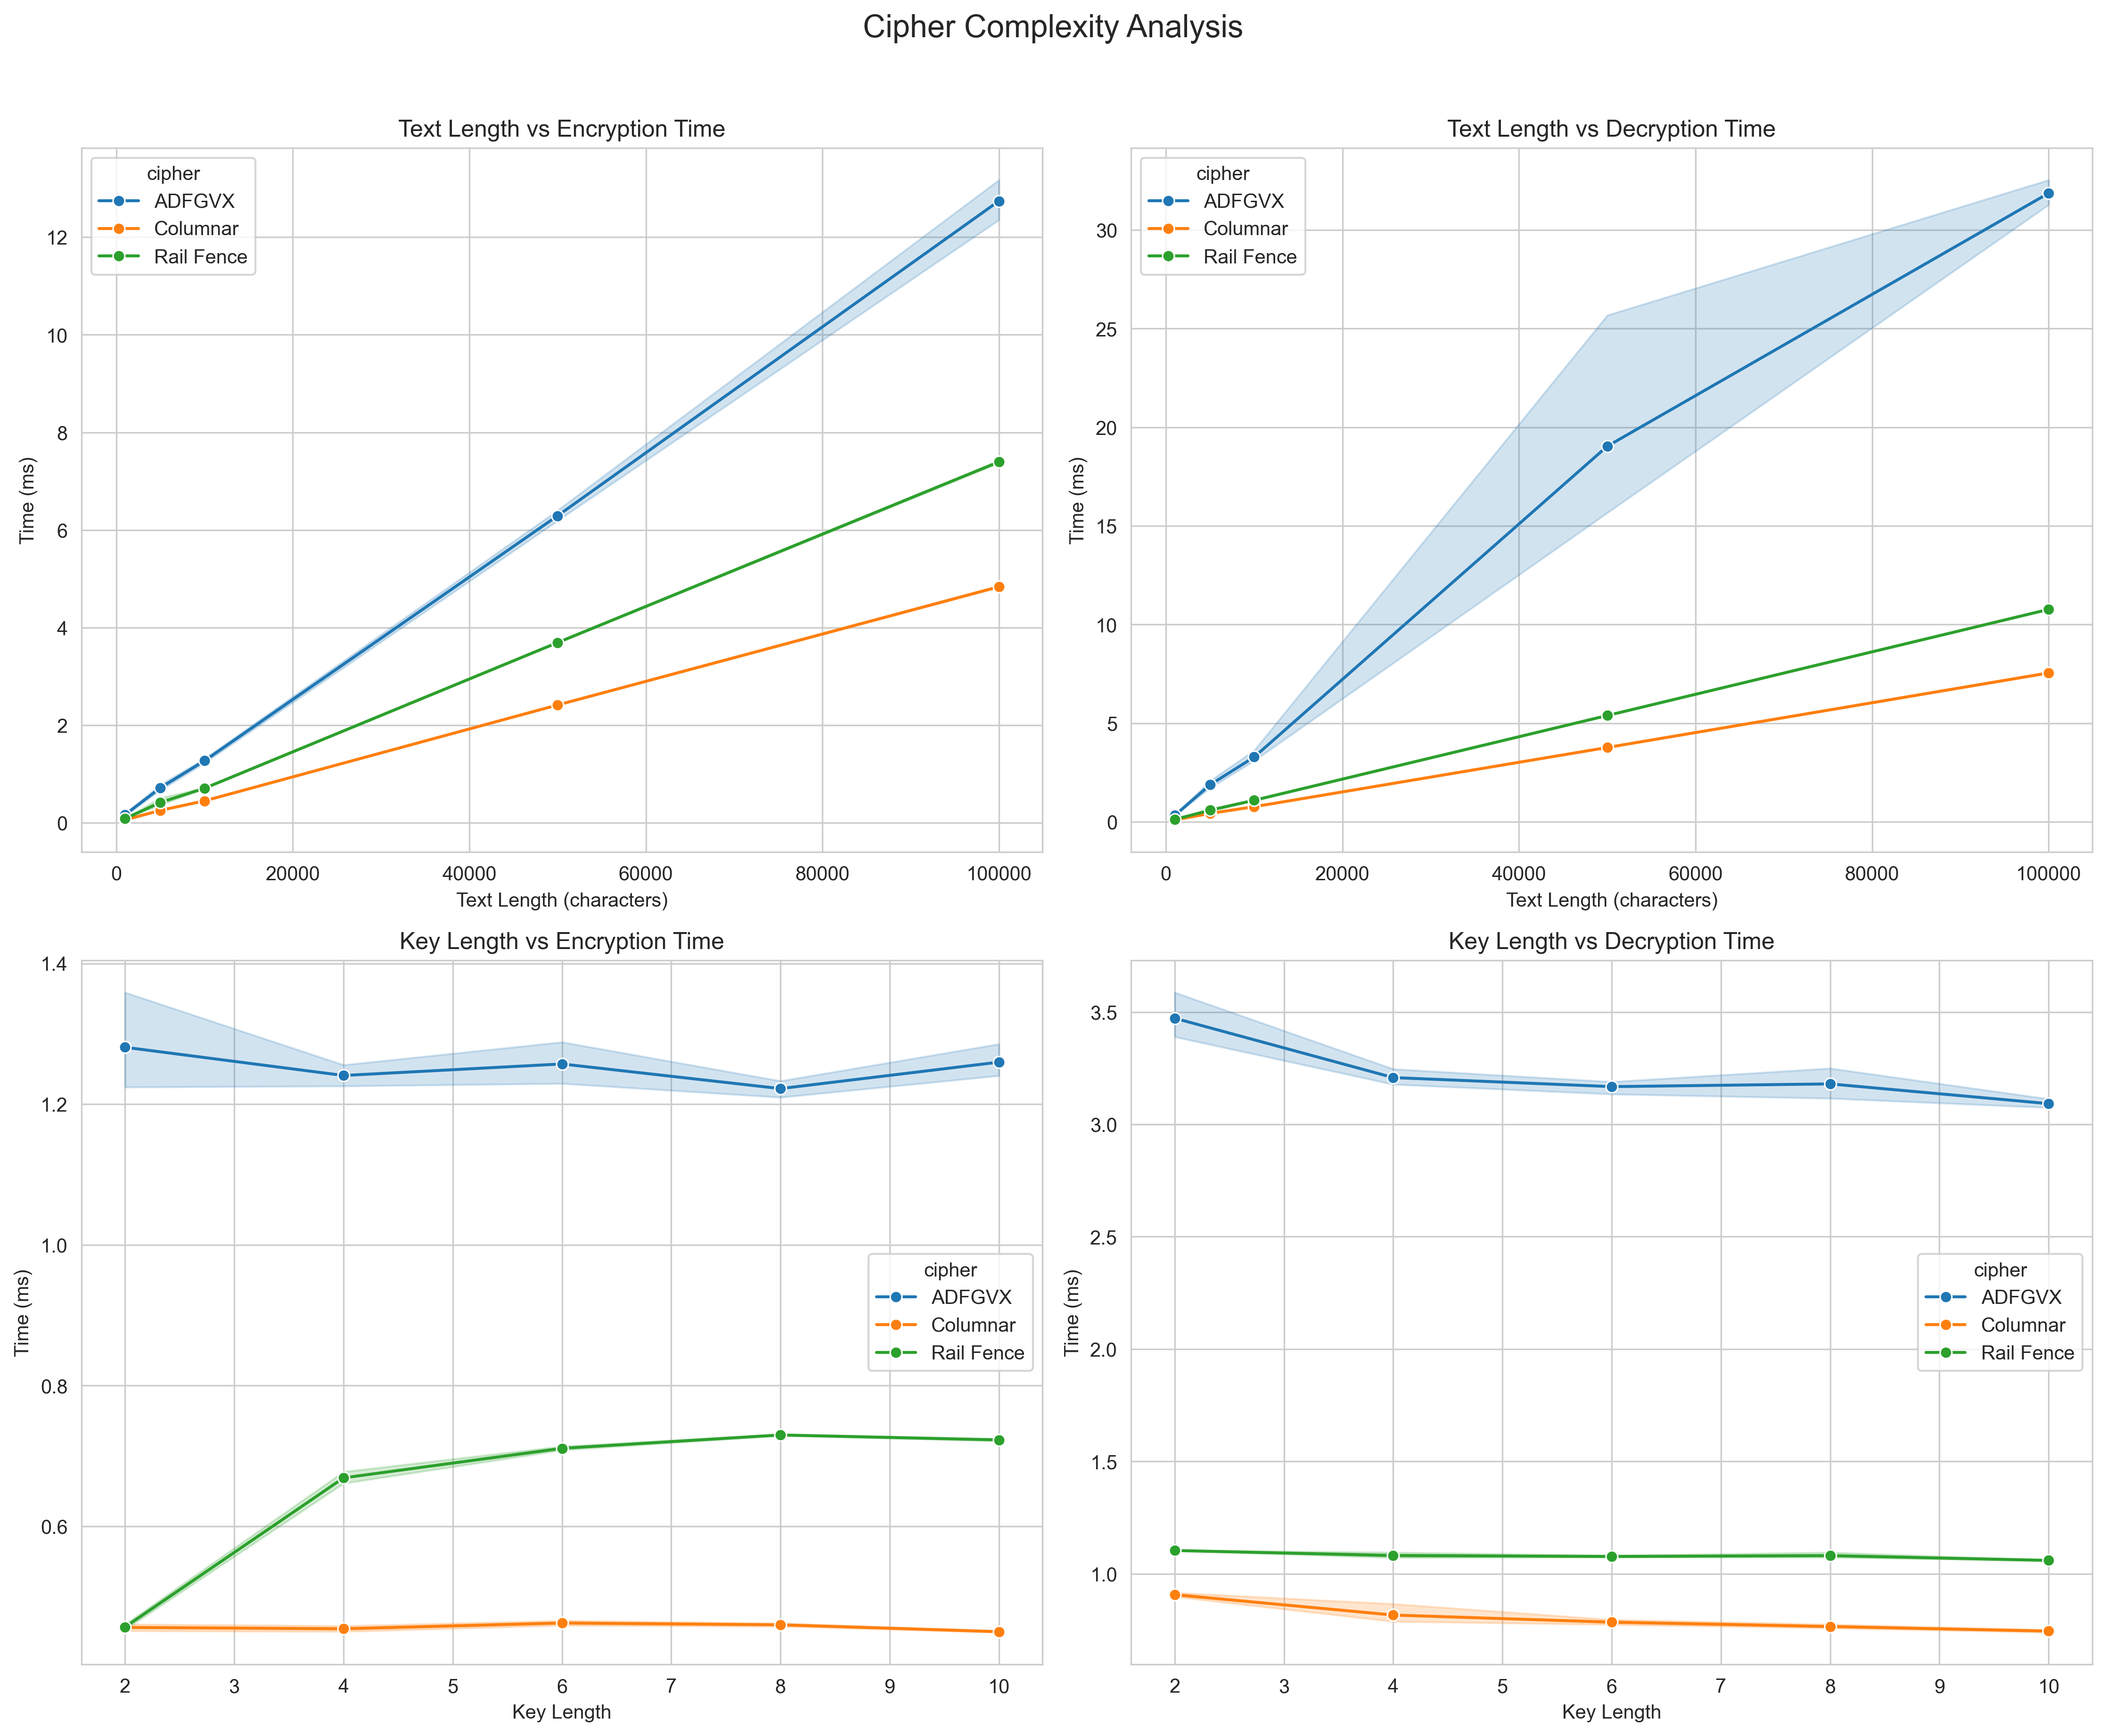
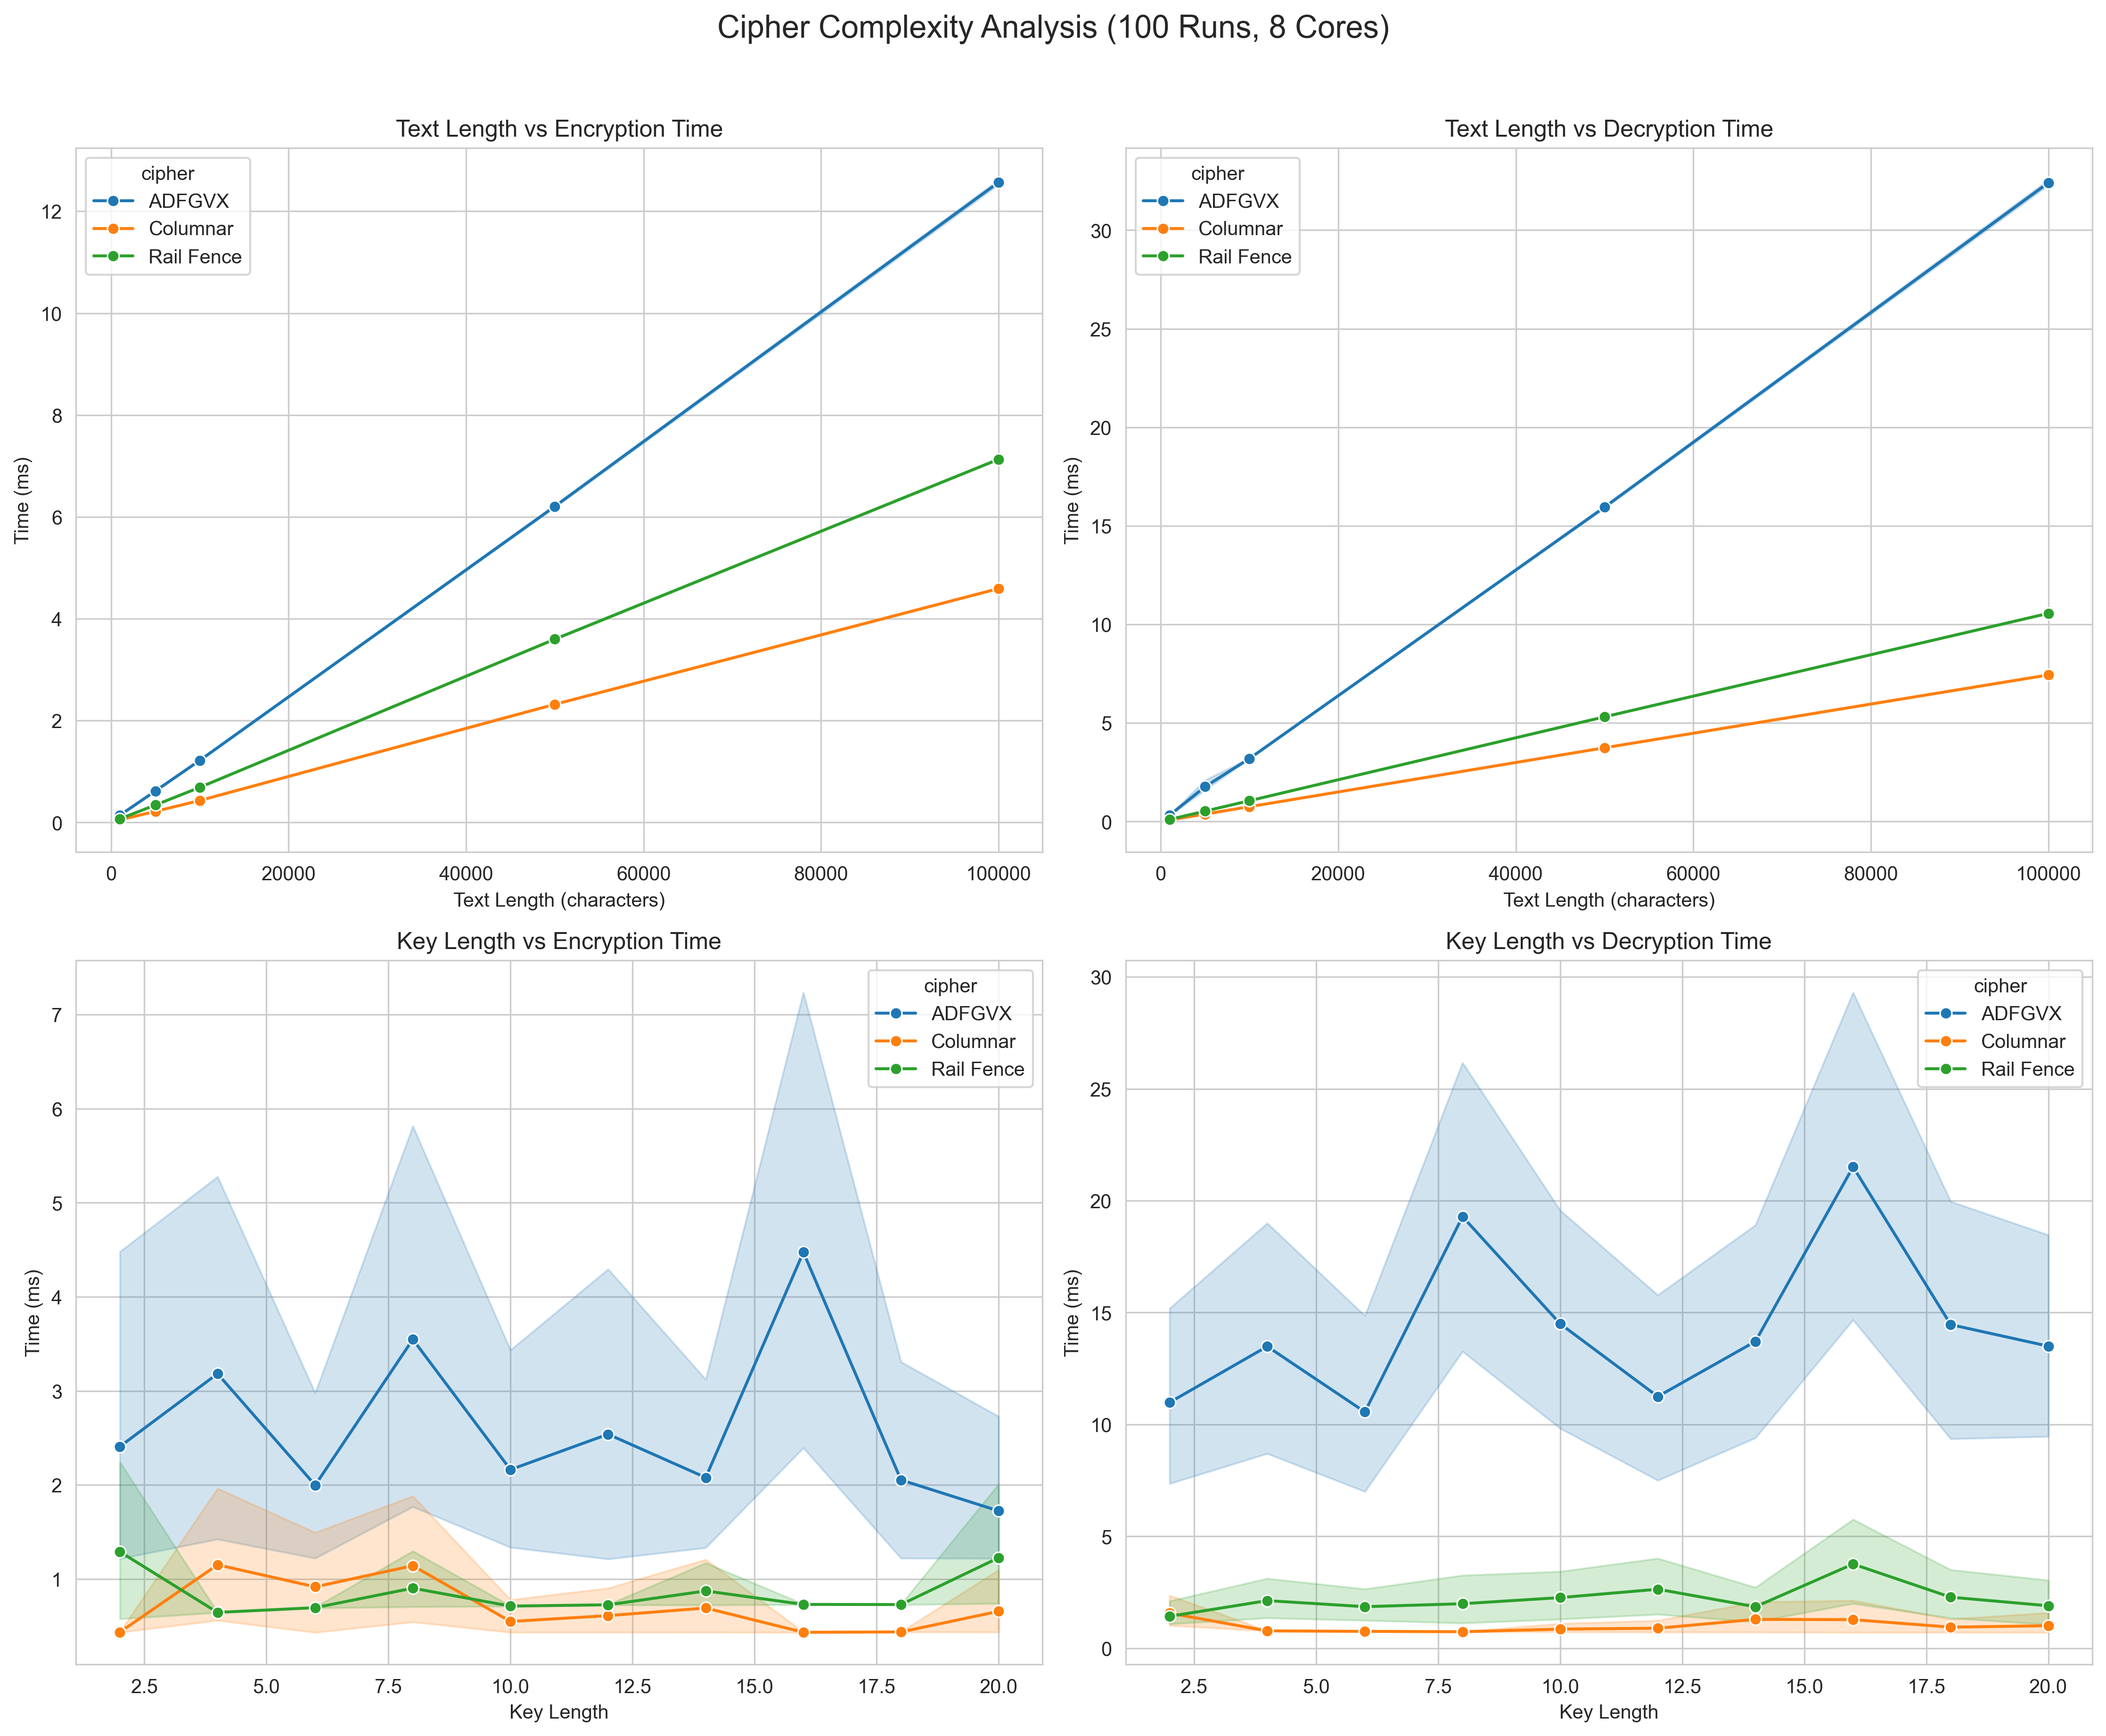
strange peaks on graph

diff --git a/cipher_complexity.py b/cipher_complexity.py
@@ -1,9 +1,3 @@
-#!/usr/bin/env python3
-"""
-Cipher Complexity Analysis Tool
-Analyzes computational complexity of classical ciphers based on text and key lengths.
-"""
-
 import sys
 import time
 import random
@@ -12,12 +6,14 @@ import pandas as pd
 import seaborn as sns
 import matplotlib.pyplot as plt
 from secretpy import ADFGVX, ColumnarTransposition, Zigzag, CryptMachine
+from concurrent.futures import ThreadPoolExecutor
 from tqdm import tqdm
+import multiprocessing
 
 # Analysis parameters
 TEXT_LENGTHS = [1000, 5000, 10000, 50000, 100000]
-KEY_LENGTHS = [2, 4, 6, 8, 10]
-NUM_RUNS = 5
+KEY_LENGTHS = [2, 4, 6, 8, 10, 12, 14, 16, 18, 20]
+NUM_RUNS = 100
 
 class CipherTest:
     """Class to handle cipher configuration and testing."""
@@ -30,7 +26,7 @@ class CipherTest:
         """Create configured cipher machine."""
         key = self._generate_key(key_length)
         alphabet = self._generate_alphabet() if self.needs_alphabet else None
-        
+
         cm = CryptMachine(self.cipher_class())
         cm.set_key(key)
         if alphabet:
@@ -60,7 +56,7 @@ class ComplexityAnalyzer:
     def measure_time(self, cipher_test, text, key_length):
         """Measure encryption and decryption time."""
         cm = cipher_test.create_machine(key_length)
-        
+
         start = time.time()
         encrypted = cm.encrypt(text)
         encrypt_time = (time.time() - start) * 1000
@@ -68,13 +64,19 @@ class ComplexityAnalyzer:
         start = time.time()
         cm.decrypt(encrypted)
         decrypt_time = (time.time() - start) * 1000
-        
+
         return encrypt_time, decrypt_time
+
+    def parallel_measure(self, cipher_test, text, key_length, runs):
+        """Run multiple encryption/decryption measurements in parallel."""
+        with ThreadPoolExecutor() as executor:
+            results = list(executor.map(lambda _: self.measure_time(cipher_test, text, key_length), range(runs)))
+        return results
 
     def analyze(self):
         """Perform complexity analysis."""
         results = []
-        
+
         # Test text length impact
         print("\nAnalyzing text length impact...")
         for length in tqdm(TEXT_LENGTHS):
@@ -96,8 +98,8 @@ class ComplexityAnalyzer:
         text_slice = self.text[:10000]
         for length in tqdm(KEY_LENGTHS):
             for cipher in self.ciphers:
-                for _ in range(NUM_RUNS):
-                    enc_time, dec_time = self.measure_time(cipher, text_slice, length)
+                runs_results = self.parallel_measure(cipher, text_slice, length, NUM_RUNS)
+                for enc_time, dec_time in runs_results:
                     results.extend([
                         {'type': 'key', 'size': length, 'cipher': cipher.name, 
                          'operation': 'encryption', 'time': enc_time},
@@ -142,7 +144,8 @@ class ComplexityAnalyzer:
         axes[1,1].set_xlabel('Key Length')
         axes[1,1].set_ylabel('Time (ms)')
 
-        plt.suptitle('Cipher Complexity Analysis', y=1.02, size=16)
+        num_cores = multiprocessing.cpu_count()
+        plt.suptitle('Cipher Complexity Analysis ({} Runs, {} Cores)'.format(NUM_RUNS, num_cores), y=1.02, size=16)
         plt.tight_layout()
         plt.savefig('cipher_analysis.png', bbox_inches='tight', dpi=300)
         print("\nVisualization saved as 'cipher_analysis.png'")
@@ -152,10 +155,10 @@ def load_text(filepath):
     try:
         with open(filepath, 'r', encoding='utf-8') as file:
             text = ''.join(c.lower() for c in file.read() if c.isalpha())
-        print(f"Loaded text length: {len(text)} characters")
+        print("Loaded text length: {} characters".format(len(text)))
         return text
     except Exception as e:
-        print(f"Error loading file: {e}")
+        print("Error loading file: {}".format(e))
         sys.exit(1)
 
 def main():
